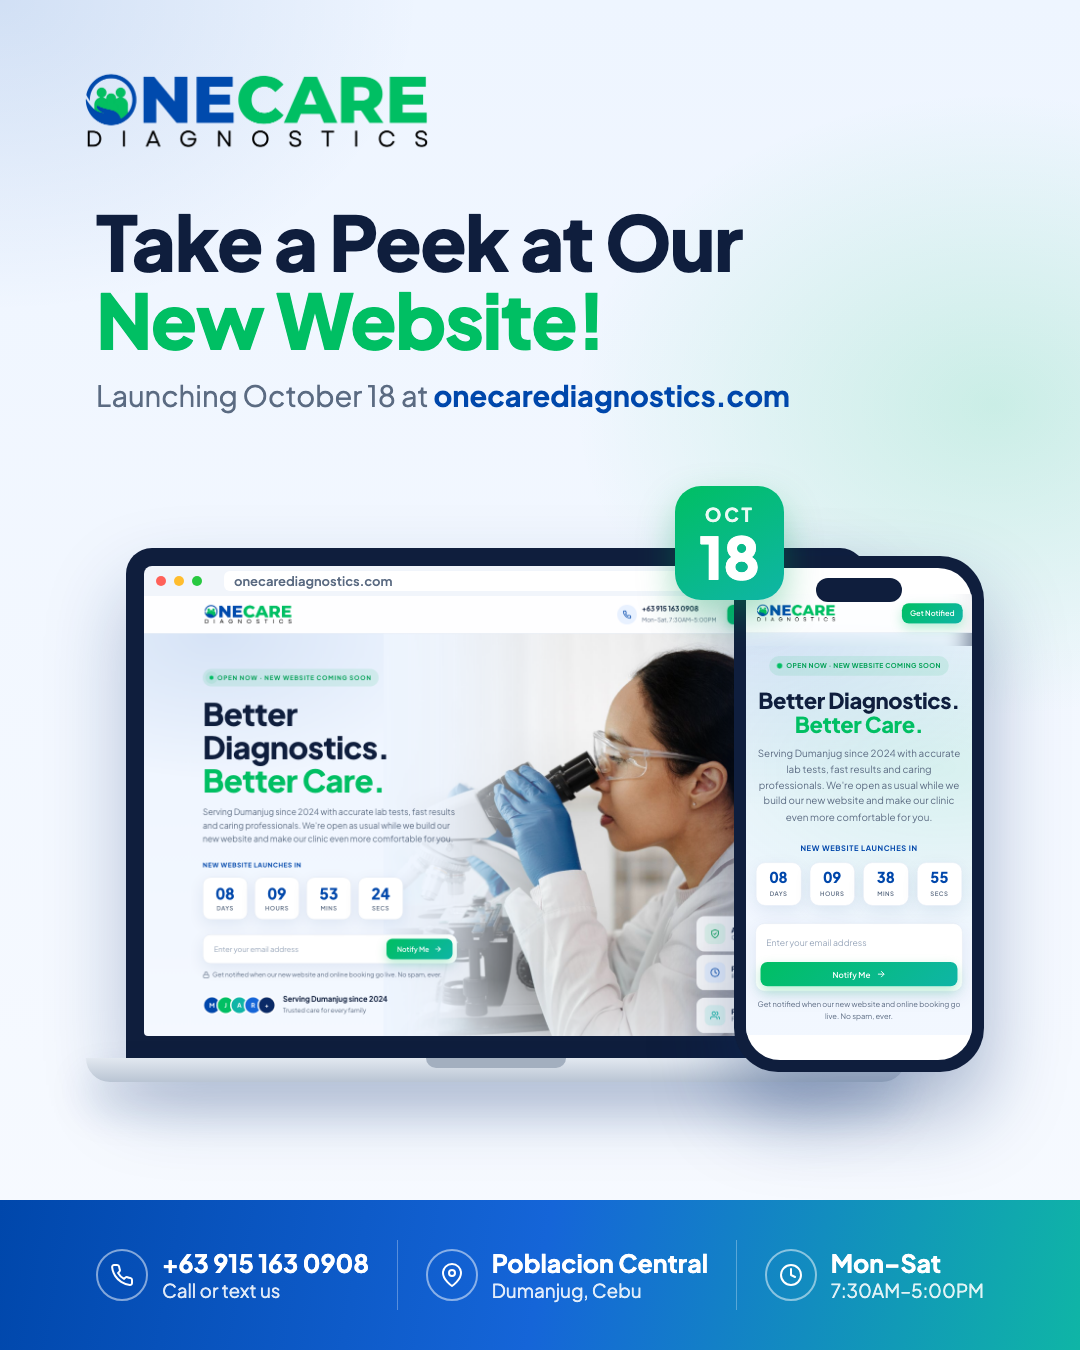
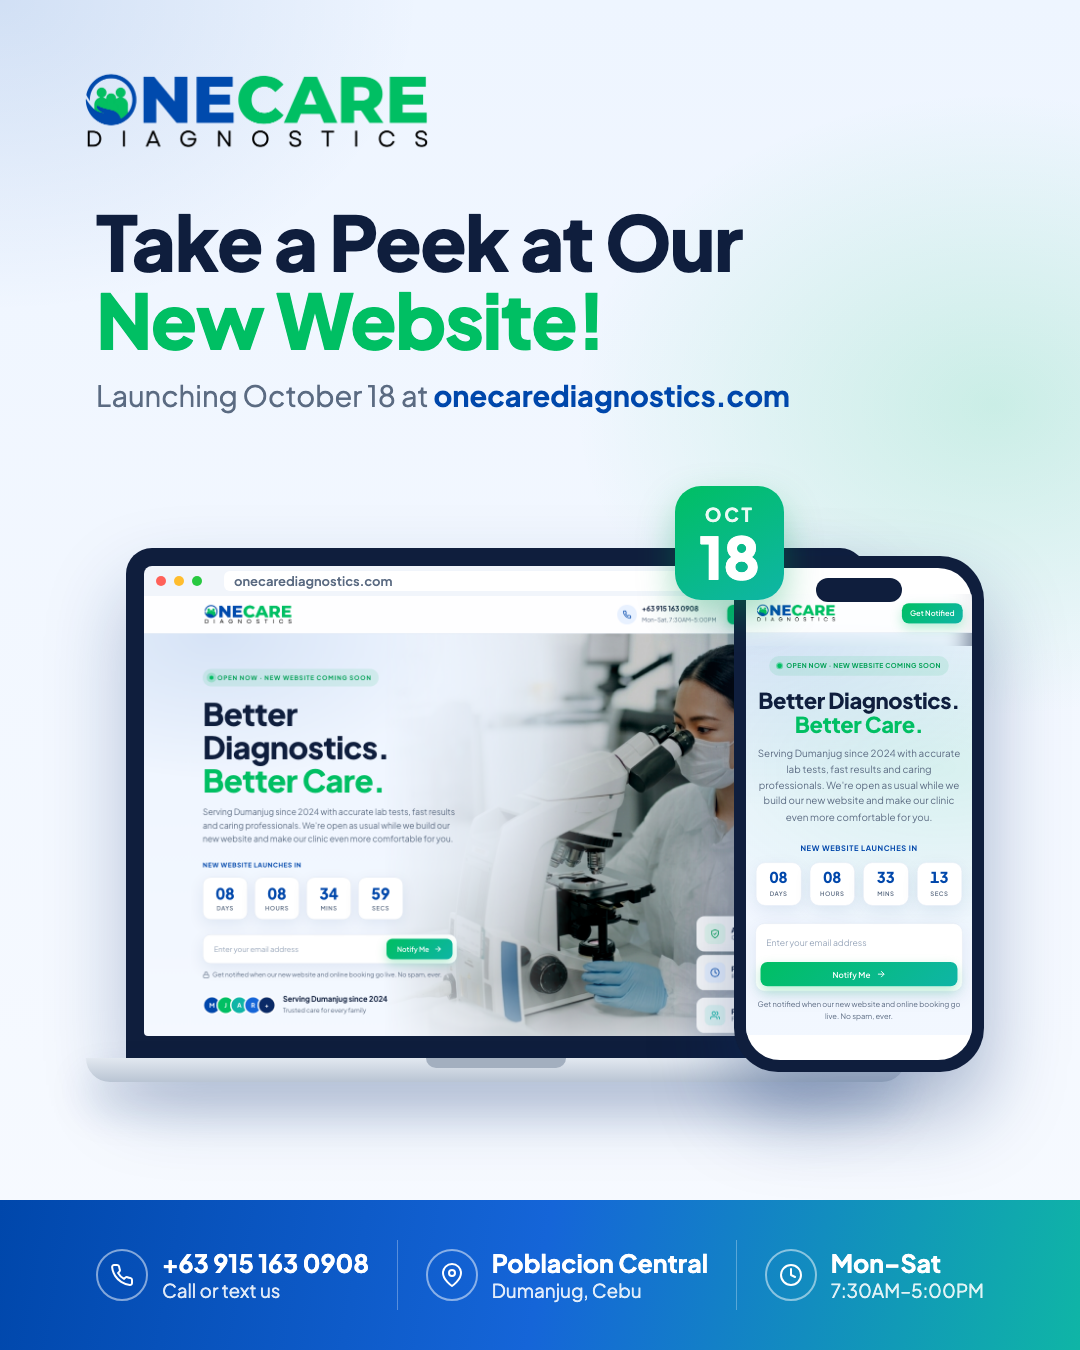
Blend hero photo edge into background and refresh Facebook posts
- Fade the hero photo's left edge with a mask instead of a hard seam
- Regenerate Facebook post graphics with the new hero photo

Changed region(s): [[0.3972, 0.4667, 0.7028, 0.7778], [0.3361, 0.6533, 0.3667, 0.6844]]

diff --git a/index.html b/index.html
@@ -142,12 +142,15 @@
   .trust small { color: var(--muted); font-size: 13px; }
 
   /* Hero photo */
-  .hero-photo { position: absolute; top: 0; right: 0; bottom: 0; width: 66%; z-index: 0; }
+  .hero-photo {
+    position: absolute; top: 0; right: 0; bottom: 0; width: 66%; z-index: 0;
+    -webkit-mask-image: linear-gradient(90deg, transparent 0%, rgba(0,0,0,.35) 14%, #000 40%);
+            mask-image: linear-gradient(90deg, transparent 0%, rgba(0,0,0,.35) 14%, #000 40%);
+  }
   .hero-photo img { width: 100%; height: 100%; object-fit: cover; object-position: 27% 30%; display: block; filter: brightness(.76) contrast(1.15) saturate(1.1); }
   .hero-photo::before {
     content: ""; position: absolute; inset: 0; z-index: 1;
     background:
-      linear-gradient(90deg, #EEF5FF 0%, rgba(238,245,255,.9) 14%, rgba(238,245,255,0) 40%),
       radial-gradient(45% 75% at 12% 15%, rgba(238,245,255,.92) 0%, rgba(238,245,255,.72) 50%, rgba(238,245,255,0) 85%),
       linear-gradient(0deg, var(--bg) 0%, rgba(245,249,255,0) 24%);
   }
@@ -322,6 +325,7 @@
     .hero-grid { grid-template-columns: 1fr; }
     .hero-photo { position: relative; order: 2; width: calc(100% - 40px); height: 380px; margin: 36px auto 0; border-radius: 24px; overflow: hidden; box-shadow: var(--shadow-lg); }
     .hero-photo::before { display: none; }
+    .hero-photo { -webkit-mask-image: none; mask-image: none; }
     .hero-cards { flex-direction: row; flex-wrap: wrap; justify-self: center; justify-content: center; }
     .hero-grid > div:first-child { text-align: center; }
     .lead, .notify { margin-inline: auto; }

diff --git a/social/fb-launch.html b/social/fb-launch.html
@@ -39,7 +39,7 @@
     margin-top: 28px; height: 470px; border-radius: 36px; overflow: hidden; position: relative;
     box-shadow: 0 30px 60px rgba(15,50,110,.18);
   }
-  .photo img { width: 100%; height: 100%; object-fit: cover; object-position: 60% 30%; display: block; }
+  .photo img { width: 100%; height: 100%; object-fit: cover; object-position: 50% 22%; display: block; filter: brightness(.88) contrast(1.12) saturate(1.08); }
   .photo::after {
     content: ""; position: absolute; inset: 0;
     background: linear-gradient(90deg, rgba(10,42,102,.55) 0%, rgba(10,42,102,0) 55%);
